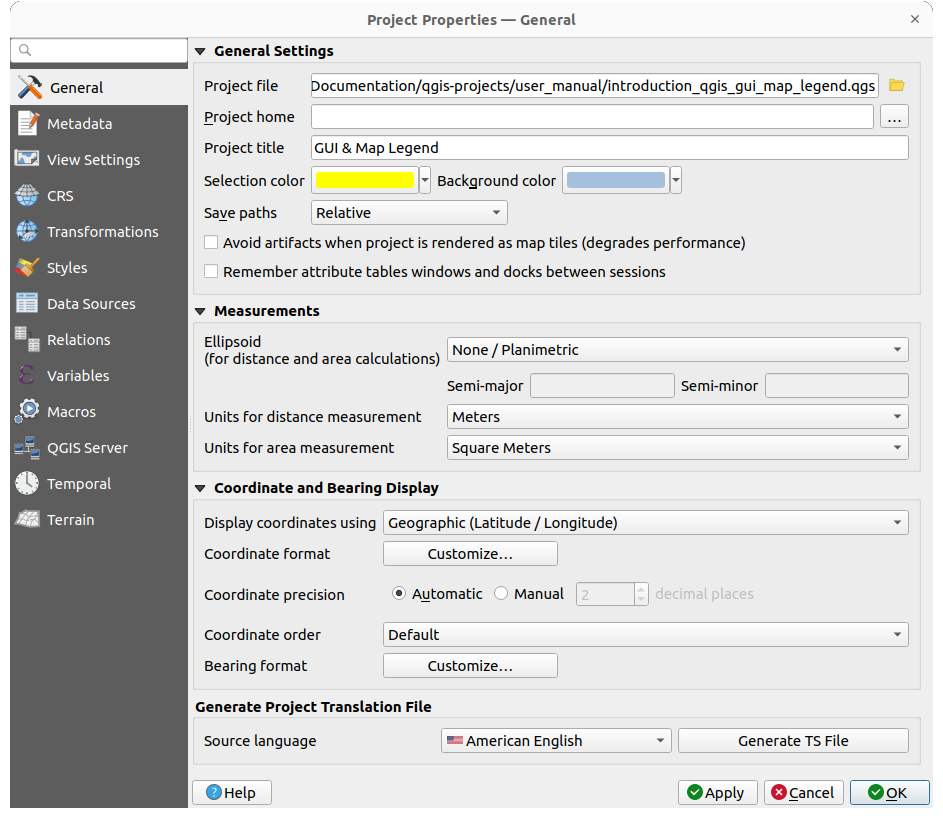
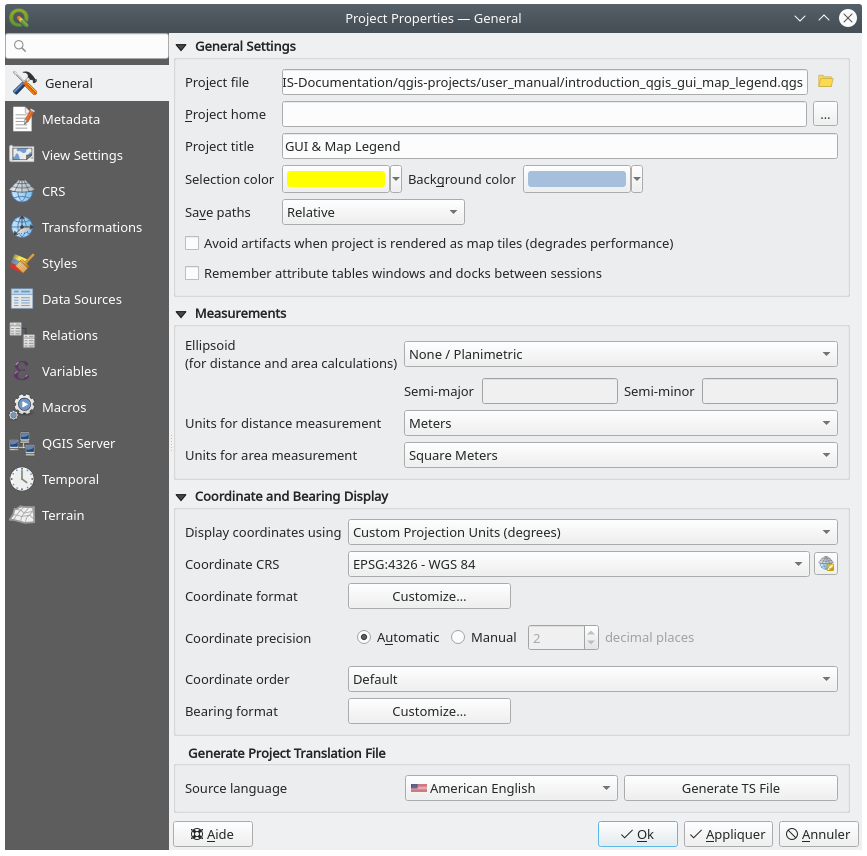
Update display coordinates options

Changed region(s): [[0.0, 0.0, 0.9965, 1.0], [0.4671, 0.8863, 0.9965, 1.0], [0.9343, 0.7641, 0.9654, 0.7946]]

diff --git a/docs/user_manual/introduction/qgis_configuration.rst b/docs/user_manual/introduction/qgis_configuration.rst
@@ -1572,8 +1572,15 @@ the display of:
 
 Available parameters are:
 
-* :guilabel:`Display coordinates using` either ``Map units`` (based on project CRS)
-  or ``Geographic (latitude/longitude)``
+* :guilabel:`Display coordinates using` either:
+
+  * ``Map Units``, based on the project CRS
+  * ``Map Geographic (degrees)``: based on the project CRS if it is of geographic type,
+    otherwise uses its associated geographic CRS. This is helpful e.g. for non-earth celestial bodies.
+  * or ``Custom Projection Units``: allows to rely on any CRS you desire for coordinates display
+
+* In the :guilabel:`Coordinate CRS` option, you can view or define the CRS to use
+  depending on your display mode.
 * :guilabel:`Coordinate format`: you can configure it as ``Decimal Degrees``,
   ``Degrees, Minutes`` or ``Degrees, Minutes, Seconds``, and whether it should display:
 
